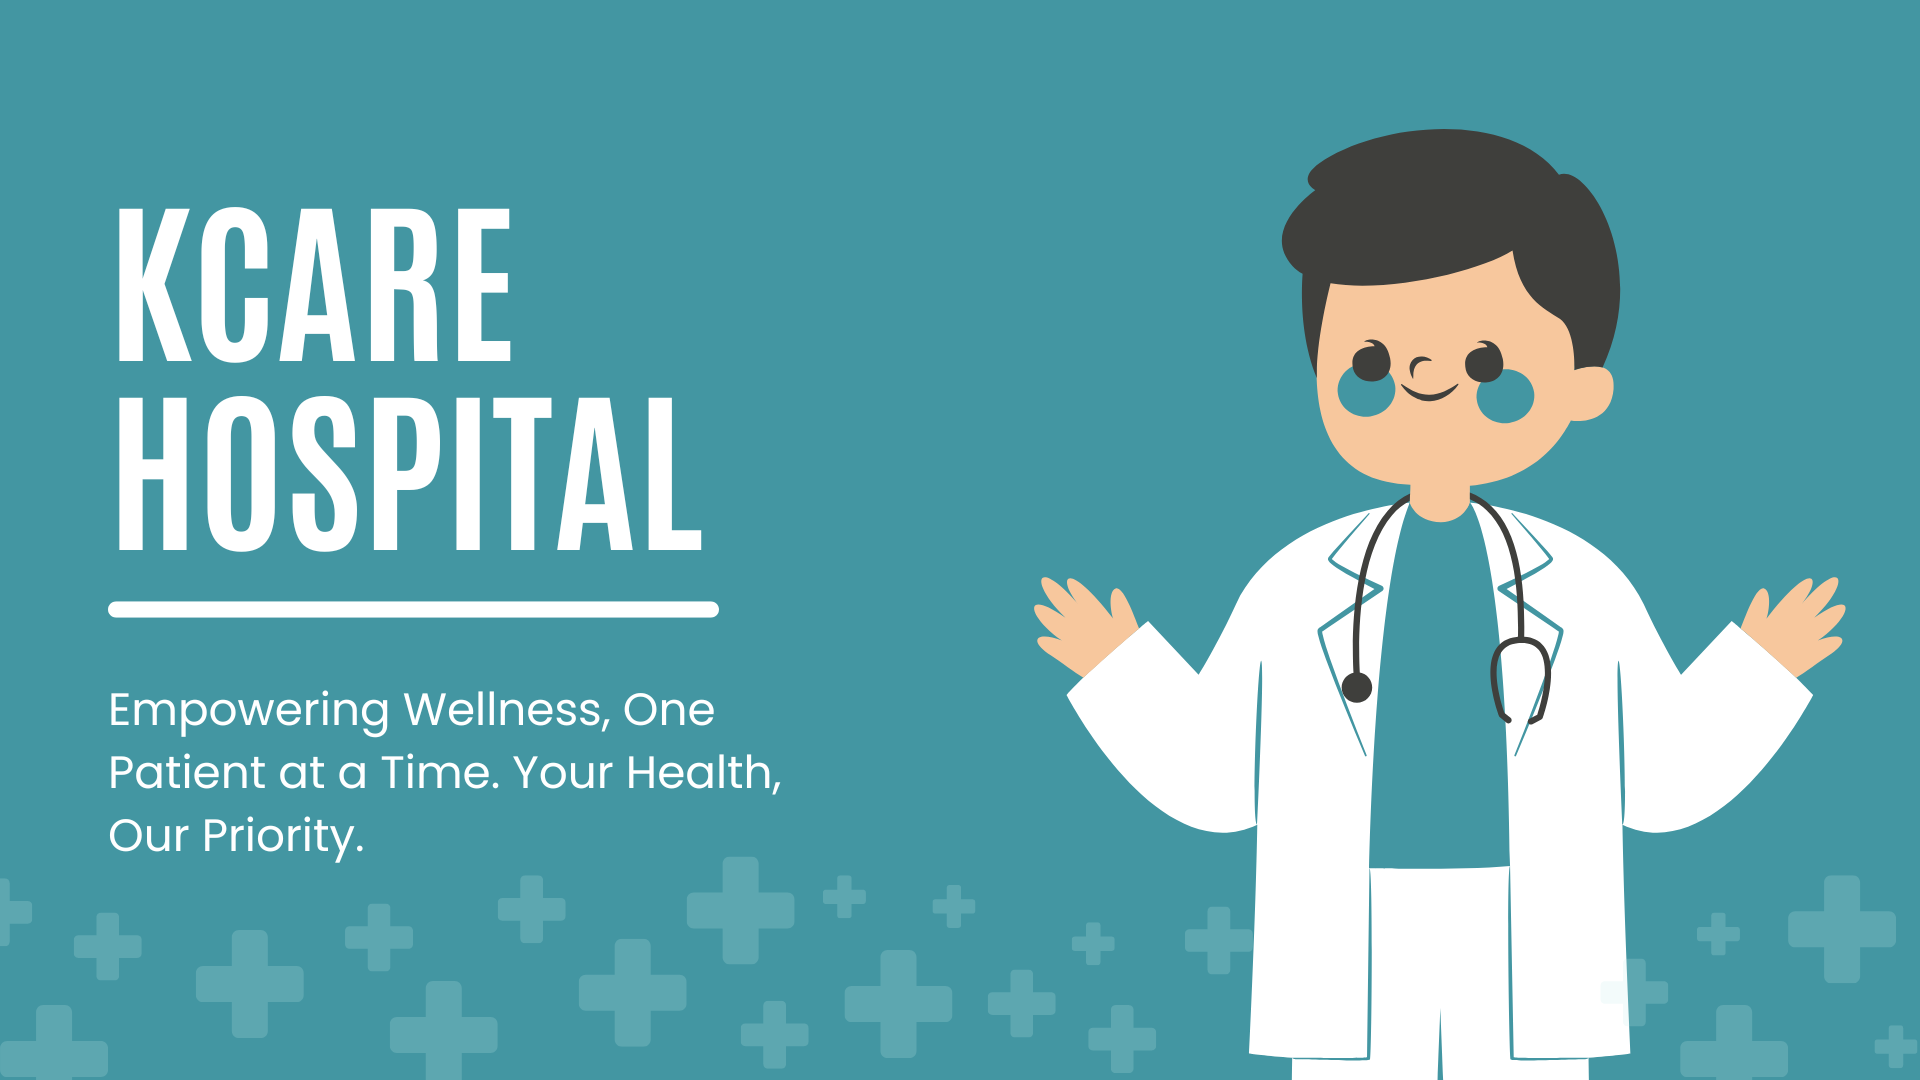
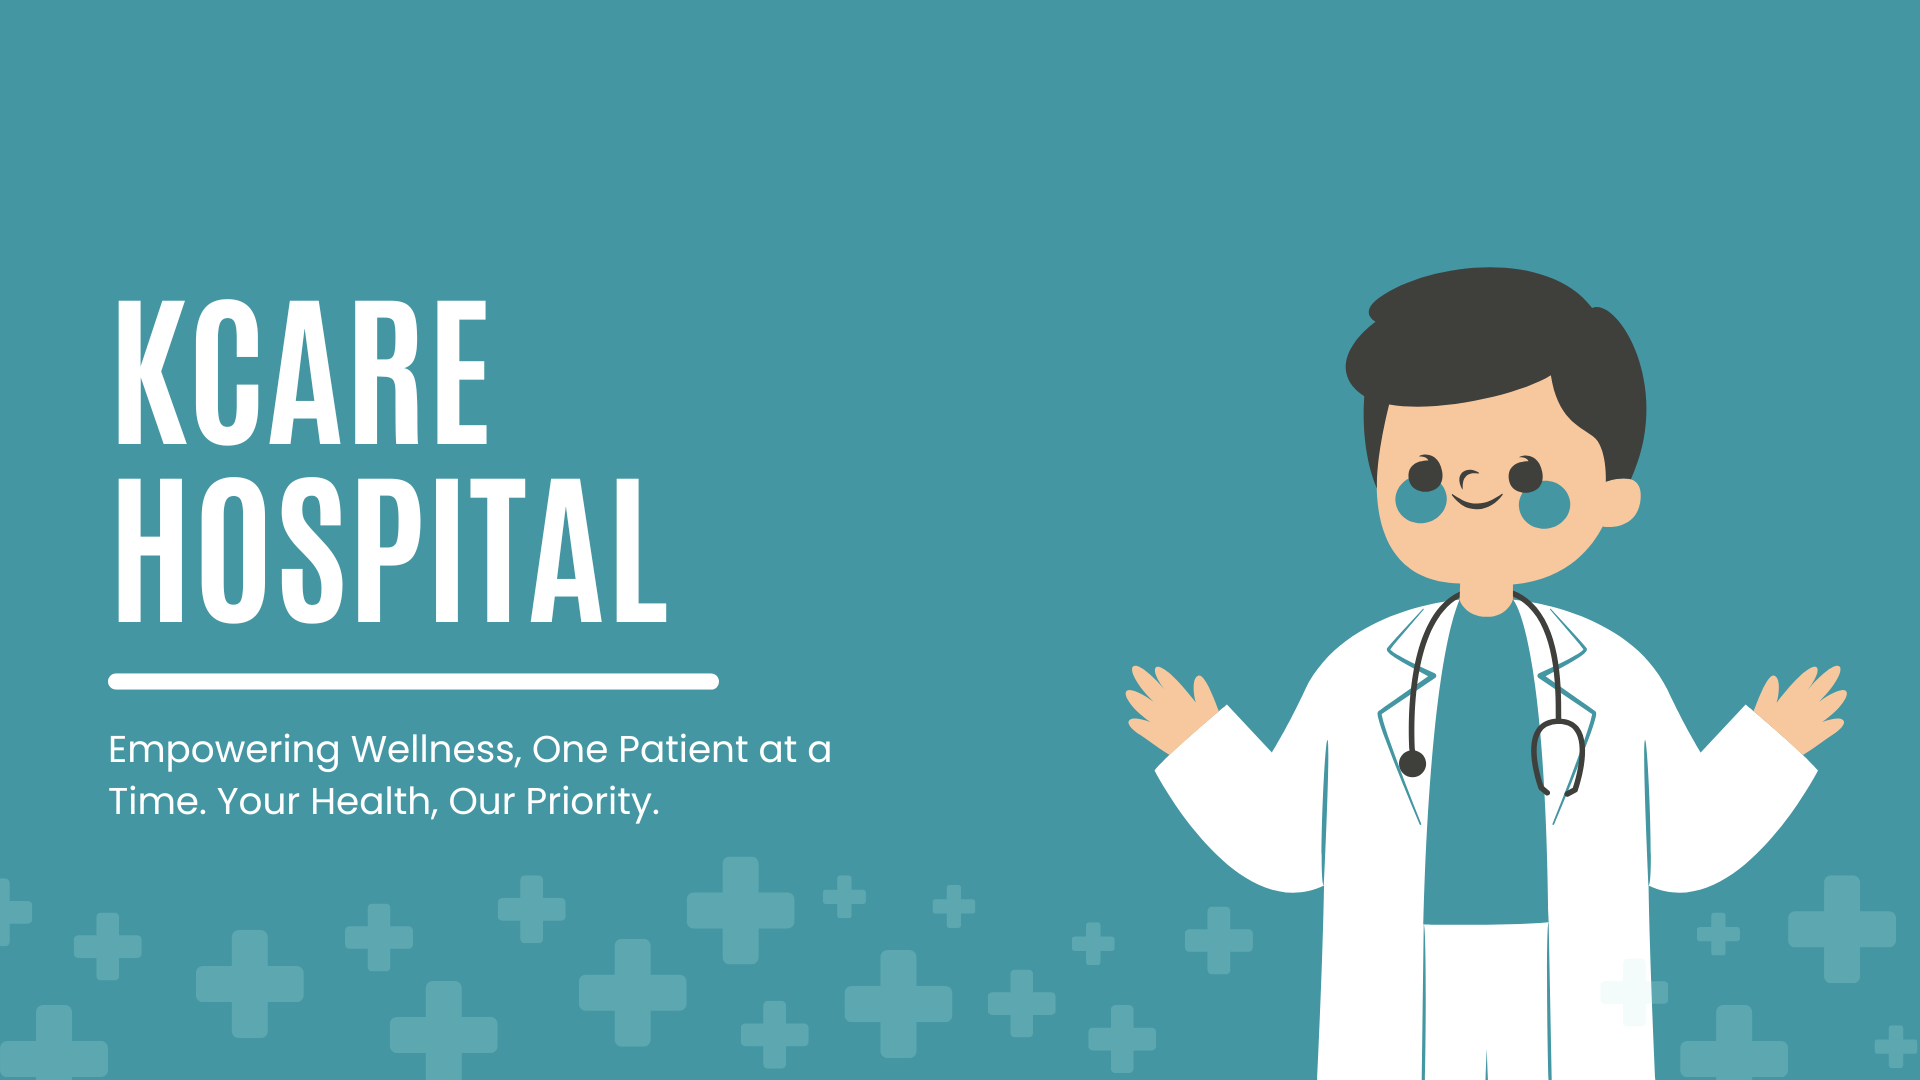
lorem

diff --git a/src/components/landing.jsx b/src/components/landing.jsx
@@ -4,8 +4,8 @@ import home_banner from '../assets/home_banner.png'
 export default function Landing() {
   return (
     <>
-        <div className="grid place-items-center w-full h-[95vh]">
-            <img src={home_banner} alt="" />
+        <div className="grid place-items-center w-full mt-10 h-[35vh] lg:h-[100vh]">
+            <img className='lg:object-cover w-full h-[35vh] lg:h-[100vh]' src={home_banner} alt="" />
         </div>
     </>
   )

diff --git a/src/components/header.jsx b/src/components/header.jsx
@@ -8,7 +8,7 @@ const Header = () => {
   };
 
   return (
-    <header className="bg-[#fefefe] shadow-md w-full text-[#4396A2] poppins-medium p-5 lg:px-[50px]">
+    <header className="bg-[#fefefe] fixed shadow-md w-full text-[#4396A2] poppins-medium p-5 lg:px-[50px]">
       <div className="container mx-auto flex justify-between items-center">
         {/* Logo */}
         <div>
